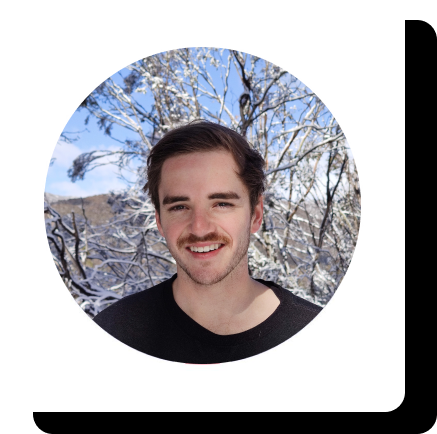
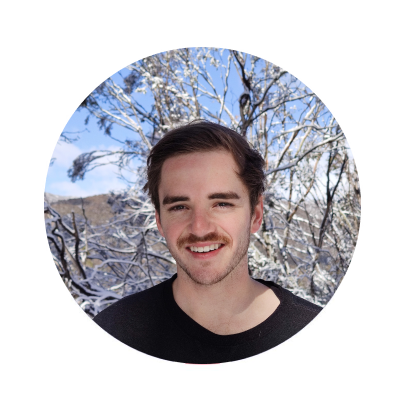
wip redoing portfolio

diff --git a/index.html b/index.html
@@ -26,11 +26,10 @@
 <body id="page-top">
     <!-- Navigation-->
     <nav class="navbar navbar-expand-lg navbar-light fixed-top py-3" id="mainNav">
-        <div class="container">
-            <a class="navbar-brand js-scroll-trigger" href="#page-top">Will Smith</a><button
+            <!-- <a class="navbar-brand js-scroll-trigger" href="#page-top">Will Smith</a><button
                 class="navbar-toggler navbar-toggler-right" type="button" data-toggle="collapse"
                 data-target="#navbarResponsive" aria-controls="navbarResponsive" aria-expanded="false"
-                aria-label="Toggle navigation"><span class="navbar-toggler-icon"></span></button>
+                aria-label="Toggle navigation"><span class="navbar-toggler-icon"></span></button> -->
             <div class="collapse navbar-collapse" id="navbarResponsive">
                 <ul class="navbar-nav ml-auto my-2 my-lg-0">
                     <li class="nav-item"><a class="nav-link js-scroll-trigger" href="#home">Home</a></li>
@@ -40,17 +39,16 @@
                             target="_blank">Resume</a></li>
                 </ul>
             </div>
-        </div>
     </nav>
     <!-- Masthead-->
     <header class="masthead" id="home">
         <section class="page-section" id="about">
-            <div class="container h-100">
+            <div class="container h-100" style="display: flex; align-items: center;">
                 <div class="row justify-content-center">
-                    <div class="col-lg-6 text-center">
-                        <img class="img-fluid" src="assets/img/headshot.png" alt="headshot" id="headshot" />
+                    <div class="col-lg-5 text-center">
+                        <img class="img-fluid" src="assets/img/headshot-old.png" alt="headshot" id="headshot" />
                     </div>
-                    <div class="col-lg-6 text-center">
+                    <div class="col-lg-7 text-center">
                         <h1 class="header">Will Smith</h1>
                         <h3 class="subheader">Full Stack Developer</h3>
                             <a href="https://willsmithte.com/resume" target="_blank">
@@ -71,36 +69,37 @@
                 </div>
             </div>
         </section>
-        <!-- <div class="row h-100 align-items-center justify-content-center text-center">
-                    <div class="col-lg-10 align-self-end">
-                        <h1 class="text-uppercase text-white font-weight-bold">Will Smith</h1>
-                        <hr class="divider my-4" />
-                    </div>
-                    <div class="col-lg-8 align-self-baseline">
-                        <p class="text-white-75 font-weight-light mb-5">Australian Software Engineer</p>
-                        <a class="btn btn-primary btn-xl js-scroll-trigger" href="#about">Find Out More</a>
-                    </div>
-                </div> -->
-        <!-- </div> -->
     </header>
     <!-- About section-->
-    <section class="page-section bg-primary" id="about">
+    <section class="page-section" id="projects">
         <div class="container">
-            <div class="row justify-content-center">
-                <div class="col-lg-4 text-center"><img class="img-fluid" src="assets/img/me.jpg" alt="" /></div>
-                <div class="col-lg-8 text-center">
-                    <h2 class="text-white mt-0">2020 Software Engineering Graduate</h2>
-                    <hr class="divider light my-4" />
-                    <h2 class="text-white mt-0">University of Technology Sydney</h2>
-                    <div>
-                        <a href="https://www.linkedin.com/in/willsmithte/" target="_blank"><img
-                                class="img-fluid logo-img" src="assets/img/linkedinLogo.png" alt="" /></a><a
-                            href="https://github.com/WillSmithTE" target="_blank"><img class="img-fluid logo-img"
-                                src="assets/img/githubLogo.png" alt="" /></a><a href="http://willsmithte.com/resume"
-                            target="_blank"><img class="img-fluid resume-icon" src="assets/img/resumeIcon.png"
-                                alt="" /></a>
+            <div class="row justify-content-start" style="padding-bottom: 1rem;">
+                <h1>Projects</h1>
+            </div>
+            <div class="row justify-content-between">
+                <div class="project-card">
+                    <img class="project-image" src="assets/img/project/shred-crew-project.png" alt="shred-crew-project" />
+                    <div class="project-summary">
+                        <h3>Shred Crew</h3>
+                        <p>The Shred Crew app finds like-minded skiers and snowboarders for you.</p>
+                        <img class="project-tech" src="assets/img/project/shred-crew-tech.png" alt="shred-crew-tech" />
                     </div>
-                    <a class="btn btn-light btn-xl js-scroll-trigger" href="#experience">Read more</a>
+                </div>
+                <div class="project-card">
+                    <img class="project-image" src="assets/img/project/shred-crew-project.png" alt="shred-crew-project" />
+                    <div class="project-summary">
+                        <h3>Shred Crew</h3>
+                        <p>The Shred Crew app finds like-minded skiers and snowboarders for you.</p>
+                        <img class="project-tech" src="assets/img/project/shred-crew-tech.png" alt="shred-crew-tech" />
+                    </div>
+                </div>
+                <div class="project-card">
+                    <img class="project-image" src="assets/img/project/shred-crew-project.png" alt="shred-crew-project" />
+                    <div class="project-summary">
+                        <h3>Shred Crew</h3>
+                        <p>The Shred Crew app finds like-minded skiers and snowboarders for you.</p>
+                        <img class="project-tech" src="assets/img/project/shred-crew-tech.png" alt="shred-crew-tech" />
+                    </div>
                 </div>
             </div>
         </div>

diff --git a/css/styles.css b/css/styles.css
@@ -66,7 +66,11 @@ body {
   line-height: 1.5;
   color: #212529;
   text-align: left;
-  background-color: #fff;
+  background: #E5E5E5;
+  background-position: center;
+  background-repeat: no-repeat;
+  background-attachment: scroll;
+  background-size: cover;
 }
 
 [tabindex="-1"]:focus:not(:focus-visible) {
@@ -376,7 +380,7 @@ h2, .h2 {
 }
 
 h3, .h3 {
-  font-size: 2.5rem;
+  font-size: 3rem;
 }
 
 h4, .h4 {
@@ -542,13 +546,16 @@ pre code {
 }
 
 .container {
-  width: 100%;
+  width: 90%;
   padding-right: 15px;
   padding-left: 15px;
   margin-right: auto;
   margin-left: auto;
+  /* display: flex; */
+  /* align-items: center; */
+  height: 100%;
 }
-@media (min-width: 576px) {
+/* @media (min-width: 576px) {
   .container {
     max-width: 540px;
   }
@@ -567,17 +574,17 @@ pre code {
   .container {
     max-width: 1140px;
   }
-}
+} */
 
 .container-fluid, .container-xl, .container-lg, .container-md, .container-sm {
-  width: 100%;
+  width: 90%;
   padding-right: 15px;
   padding-left: 15px;
   margin-right: auto;
   margin-left: auto;
 }
 
-@media (min-width: 576px) {
+/* @media (min-width: 576px) {
   .container-sm, .container {
     max-width: 540px;
   }
@@ -596,7 +603,7 @@ pre code {
   .container-xl, .container-lg, .container-md, .container-sm, .container {
     max-width: 1140px;
   }
-}
+} */
 .row {
   display: flex;
   flex-wrap: wrap;
@@ -9980,7 +9987,8 @@ hr.light {
 }
 
 .page-section {
-  padding: 8rem 0;
+  padding: 1rem 0;
+  height: 100%;
 }
 
 #mainNav {
@@ -10015,14 +10023,14 @@ hr.light {
     /* color: rgba(255, 255, 255, 0.7); */
   }
   #mainNav .navbar-brand:hover {
-    color: #fff;
+    color: #f4623a;
   }
   #mainNav .navbar-nav .nav-item .nav-link {
     /* color: rgba(255, 255, 255, 0.7); */
     padding: 0 1rem;
   }
   #mainNav .navbar-nav .nav-item .nav-link:hover {
-    color: #fff;
+    color: #f4623a;
   }
   #mainNav .navbar-nav .nav-item:last-child .nav-link {
     padding-right: 0;
@@ -10046,7 +10054,7 @@ hr.light {
 }
 
 header.masthead {
-  padding-top: 10rem;
+  padding-top: 2rem;
   padding-bottom: calc(10rem - 4.5rem);
   /* background: linear-gradient(to bottom, rgba(92, 77, 66, 0.8) 0%, rgba(92, 77, 66, 0.8) 100%), url("../assets/img/willsmith.jpg"); */
   background: #E5E5E5;
@@ -10056,7 +10064,10 @@ header.masthead {
   background-size: cover;
 }
 header.masthead h1 {
-  font-size: 2.25rem;
+  font-size: 300%;
+}
+header.masthead h3 {
+  font-size: 200%;
 }
 @media (min-width: 992px) {
   header.masthead {
@@ -10136,11 +10147,17 @@ header.masthead h1 {
 
 
 #headshot {
-  width: 50%;
+  width: 60%;
+  /* box-shadow: 10px 10px 0px #000000;
+  border-radius: 10px; */
+  margin-bottom: 2rem;
 }
 
 #resume-button {
-  width: 60%;
+  width: 30%;
+  border: 2px solid #000000;
+  box-shadow: 10px 10px 0px #000000;
+  margin-bottom: 2rem;
 }
 
 .company-icon {
@@ -10161,4 +10178,41 @@ header.masthead h1 {
   font-weight: 300;
   opacity: 0.6;
   padding-bottom: 2rem;
+}
+
+#navbarResponsive {
+  max-width: 98%;
+}
+
+.project-card {
+  background: #FFFFFF;
+  border-radius: 20px;
+  width: 30%;
+  overflow: hidden;
+  box-shadow: 20px 20px 0px #000000;
+}
+.project-image {
+  width: 100%;
+}
+.project-summary h3 {
+  font-size: 1.5rem;
+  font-family: 'Cairo';
+  font-weight: 600;
+}
+.project-summary p {
+  font-size: .75rem;
+  font-family: 'Inter';
+  font-weight: 200;
+}
+
+.project-summary {
+  padding: 1rem;
+}
+.project-tech {
+  height: 3.5rem;
+}
+
+.my-shadow {
+  box-shadow: 10px 10px 0px #000000;
+  border-radius: 20px;
 }
